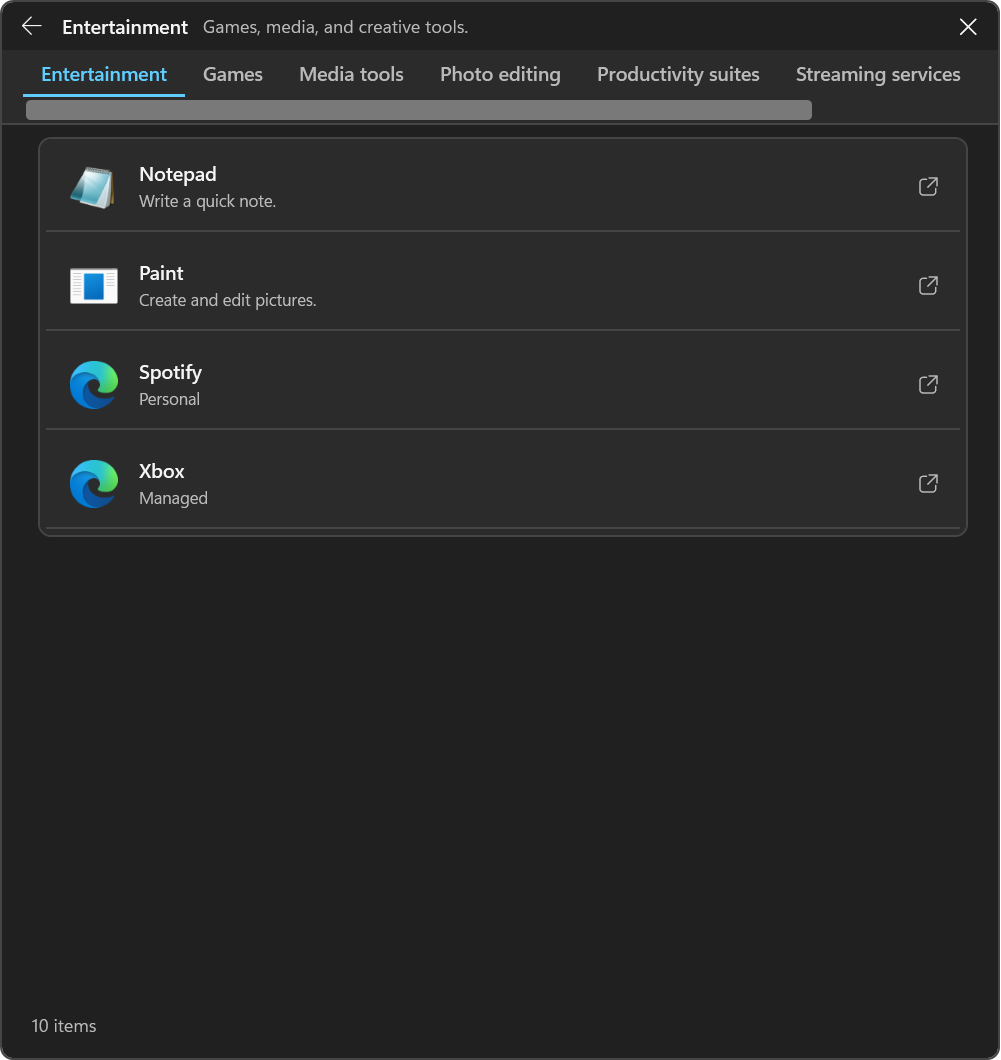
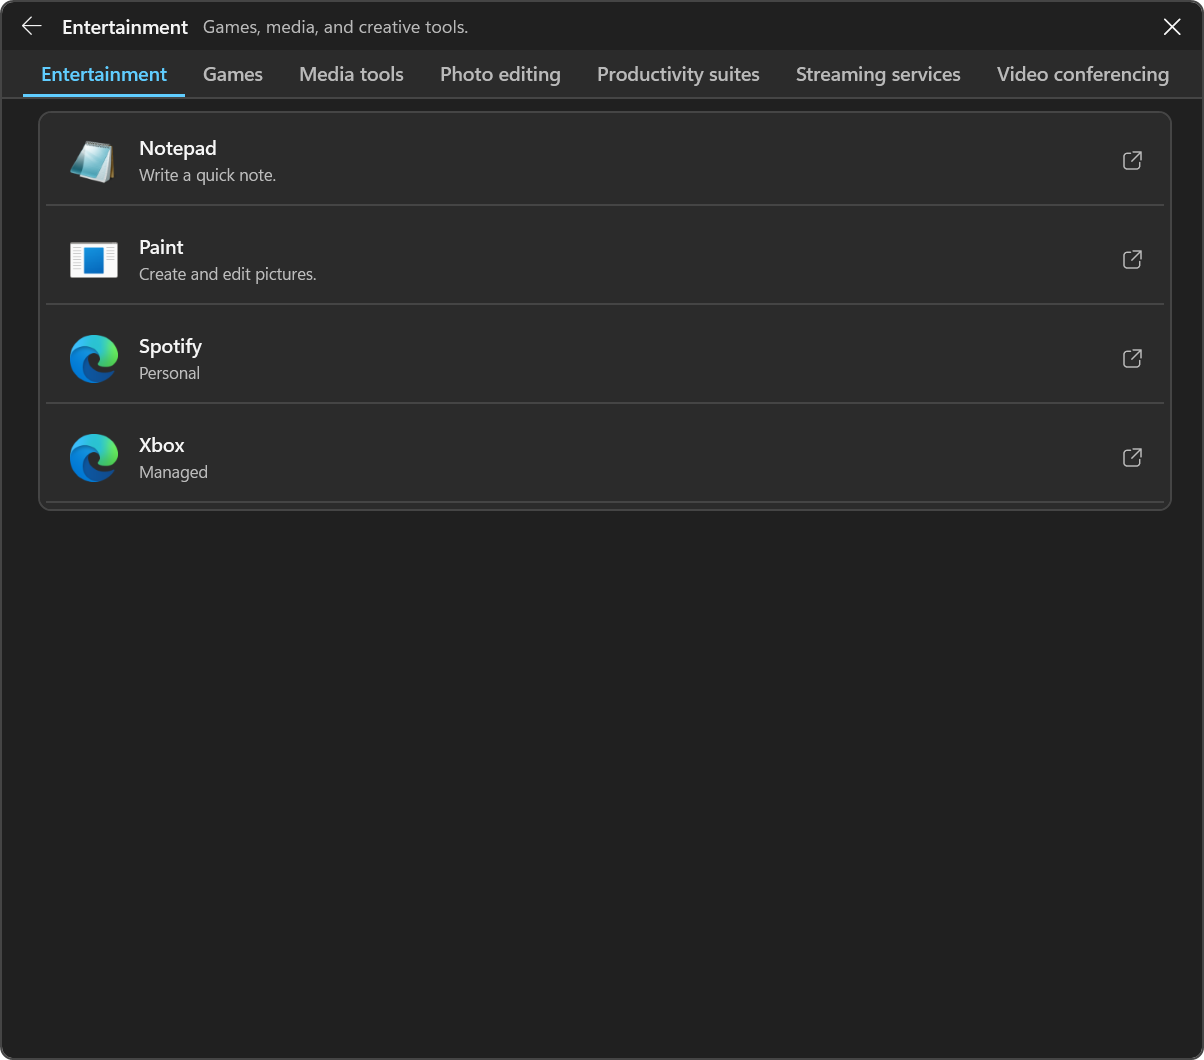
feat(launcher): fit the TabbedList width to the tab strip and drop the item count
The tab strip scrolled horizontally whenever the tabs exceeded the fixed 680 DIU width. The window now widens to fit them, bounded by 80 percent of the work area and floored at the width the user last chose; an automatic fit is tracked apart from that floor so it is never persisted as a user dimension.

Summing TabItem.DesiredSize and reading ScrollViewer.ExtentWidth once both under-measured by roughly one tab because the extent is exact only after a remeasure. The fit seeds from the extent, then grows by the reported ExtentWidth - ViewportWidth overflow until the strip stops scrolling.

TabbedList no longer shows an item count; the status line collapses unless it carries an error. The capture aspect assertion became invalid once the width turned dynamic and now checks a tall frame instead.

diff --git a/.memory-bank/progress.md b/.memory-bank/progress.md
@@ -15,21 +15,11 @@ release remains gated by external environment evidence.
 
 ## Recent milestones
 
-- Canonical Memory Bank base initialized.
-- 2026-07-28: Completed the adversarial requirements interview and created the
-  draft Design Concept.
-- 2026-07-28: Signed off the Design Concept; documented 33 functional, 22
-  quality, and 12 configuration requirements, 17 acceptance scenarios, ten
-  ADRs, a canonical glossary, and nine managed issues.
-- 2026-07-28: Independent security re-review closed every Blocker and Major and
-  returned `READY FOR IMPLEMENTATION`.
-- 2026-07-28: Implemented all seven public commands, recursive Content Snapshot
-  discovery, transactional Reconciliation, the session-local WPF Launcher,
-  Shell-native invocation, operational diagnostics, cache/preferences, health,
-  Support Bundle export, and ownership-only removal.
-- 2026-07-28: Full Sampler workflows passed in both supported PowerShell
-  editions with 131 tests; isolated file-copy deployment passed with zero
-  runtime dependencies; independent final re-review returned `APPROVE`.
+- 2026-07-28: Baselined the project in git history: canonical Memory Bank,
+  requirements interview, signed Design Concept with 33 functional, 22 quality,
+  and 12 configuration requirements, 17 acceptance scenarios, ten ADRs, a
+  glossary, and nine issues; implemented all seven public commands; passed both
+  editions with 131 tests and an independent `APPROVE`.
 - 2026-07-28: Added and validated the canonical operator getting-started path
   from module installation through first Launcher use and cleanup.
 - 2026-07-28: Renamed the product from `StartMenuFolders` to `LaunchTree`
@@ -158,6 +148,17 @@ release remains gated by external environment evidence.
   clear at 43 and 124. A follow-up pass trimmed the header margin to `6,2` and
   the tab padding to `12,7,12,5`, measured on the capture as a 32 DIU header
   over a 34 DIU tab strip, down from about 116 DIU of stacked chrome.
+- 2026-07-29: Made the `TabbedList` window width follow its tab strip and
+  removed the item count from that layout. Summing `TabItem.DesiredSize` and
+  reading `ScrollViewer.ExtentWidth` once both under-measured by roughly one
+  tab, because the extent is exact only after the strip remeasures at the new
+  width. The fit now seeds from the extent and then grows by the reported
+  `ExtentWidth - ViewportWidth` overflow until the strip stops scrolling,
+  bounded by 80 percent of the work area and floored at the width the user last
+  chose. An automatic fit is tracked separately from that floor so it is never
+  persisted as a user dimension. Measured: 4 short tabs stay at the 680 DIU
+  default, 7 long tabs reach 1329 device pixels, and the 8-tab capture fixture
+  reaches 1204 with every tab visible and no horizontal scrollbar.
 - 2026-07-29: Changed `TabbedList` tab selection so the tab strip survives a
   click. Selecting a tab previously navigated into it, which rebuilt the strip
   from that folder's children and hid every sibling. The Launcher now tracks a

diff --git a/.memory-bank/techContext.md b/.memory-bank/techContext.md
@@ -43,8 +43,9 @@ source: repository evidence
   with one intentional host-dependent skip.
 - Recursive PSScriptAnalyzer: zero production-source findings.
 - `tools/New-LauncherScreenshot.ps1`: nonblank default `TabbedList` frame at
-  `1001x1060` with 36 sampled colors and `Grid` frame at `1120x866` with 120
-  sampled colors; the tool rejects stale builds and wrong layout aspect ratios.
+  `1204x1060` with 33 sampled colors and `Grid` frame at `1120x866` with 120
+  sampled colors; the tool rejects stale builds, a short `TabbedList` frame, and
+  a tall `Grid` frame.
 - `tools/Test-OfflineLifecycle.ps1`: copied module version `0.2.0`, health
   `Healthy`, WPF capture, successful removal, and zero runtime dependencies.
 - External visual-scale/theme, Windows Server, ARM64, AppLocker/WDAC, and live

diff --git a/CHANGELOG.md b/CHANGELOG.md
@@ -50,6 +50,12 @@ and this project adheres to [Semantic Versioning](https://semver.org/spec/v2.0.0
 
 ### Changed
 
+- Fit the `TabbedList` window width to the tab strip so the tabs no longer
+  scroll horizontally; the width grows to the required size within 80 percent of
+  the work area, never shrinks below the width the user chose, and an automatic
+  fit is not stored as a user dimension
+- Drop the item count from the `TabbedList` status line and collapse that line
+  unless it carries an error; `Grid` still reports its item and result counts
 - Reduce the Launcher header to a single compact line holding Back, the title,
   the active description, and Close; the breadcrumb and the separate description
   line are gone, the current path is now the title tooltip, and the header and

diff --git a/docs/specifications/functional-requirements.md b/docs/specifications/functional-requirements.md
@@ -96,7 +96,10 @@ or no child Menu Folder tab can replace it; when that tab is hidden, the first
 child Menu Folder tab must be selected. Selecting a tab must keep the whole
 tab strip visible and highlight the selected tab. A Menu Folder below the
 selected tab must appear as a list row, and opening that row must move the tab
-strip one level deeper. Machine configuration may select `Grid` for the tile
+strip one level deeper. The window width must fit the tab strip without
+horizontal scrolling, within the work-area maximum and never below the width
+the user last chose, and the layout must not display an item count. Machine
+configuration may select `Grid` for the tile
 presentation.
 
 ### FR-012 Search all Entry Roots

diff --git a/docs/design-concept.md b/docs/design-concept.md
@@ -52,7 +52,9 @@ supported DPI settings, and right-click has no effect inside the WPF window.
   tabs, and
   Launch Items appear as compact rows. Selecting a tab keeps the whole tab
   strip visible and highlights the selected tab; a Menu Folder below the
-  selected tab appears as a row that moves the tab strip one level deeper.
+  selected tab appears as a row that moves the tab strip one level deeper. The
+  window widens to fit the tab strip instead of scrolling it, and shows no item
+  count.
 - Provide global type-to-search across all configured entries in the grid
   layout. The tabbed list layout navigates through tabs instead.
 - Follow Windows light, dark, and high-contrast settings.

diff --git a/.memory-bank/activeContext.md b/.memory-bank/activeContext.md
@@ -53,6 +53,8 @@ while preserving the approved behavior and security boundaries.
 - A dragged window position is remembered and restored on the next activation,
   clamped to the virtual screen; only a first run without stored coordinates
   opens near the Start button.
+- `TabbedList` sizes the window width to its tab strip instead of scrolling the
+  tabs, and shows no item count.
 Run the outstanding external matrix and policy validations before declaring a
 production-ready release. `OI-009` still needs a real standard-user Event Log
 verification path (unelevated shell or Task Scheduler) now that the inline

diff --git a/docs/specifications/configuration.md b/docs/specifications/configuration.md
@@ -151,7 +151,8 @@ not contain Launch Item targets, search history, or usage
 history. Missing or null first-run dimensions fit visible content, with a
 minimum of 520 by 420 device-independent pixels and a maximum of 80 percent of
 the active work area. A user resize stores the resulting dimensions, and a user
-move stores the resulting coordinates.
+move stores the resulting coordinates. A width the Launcher derives from the
+`TabbedList` tab strip is not a user dimension and is not stored.
 
 ## Generated State
 
